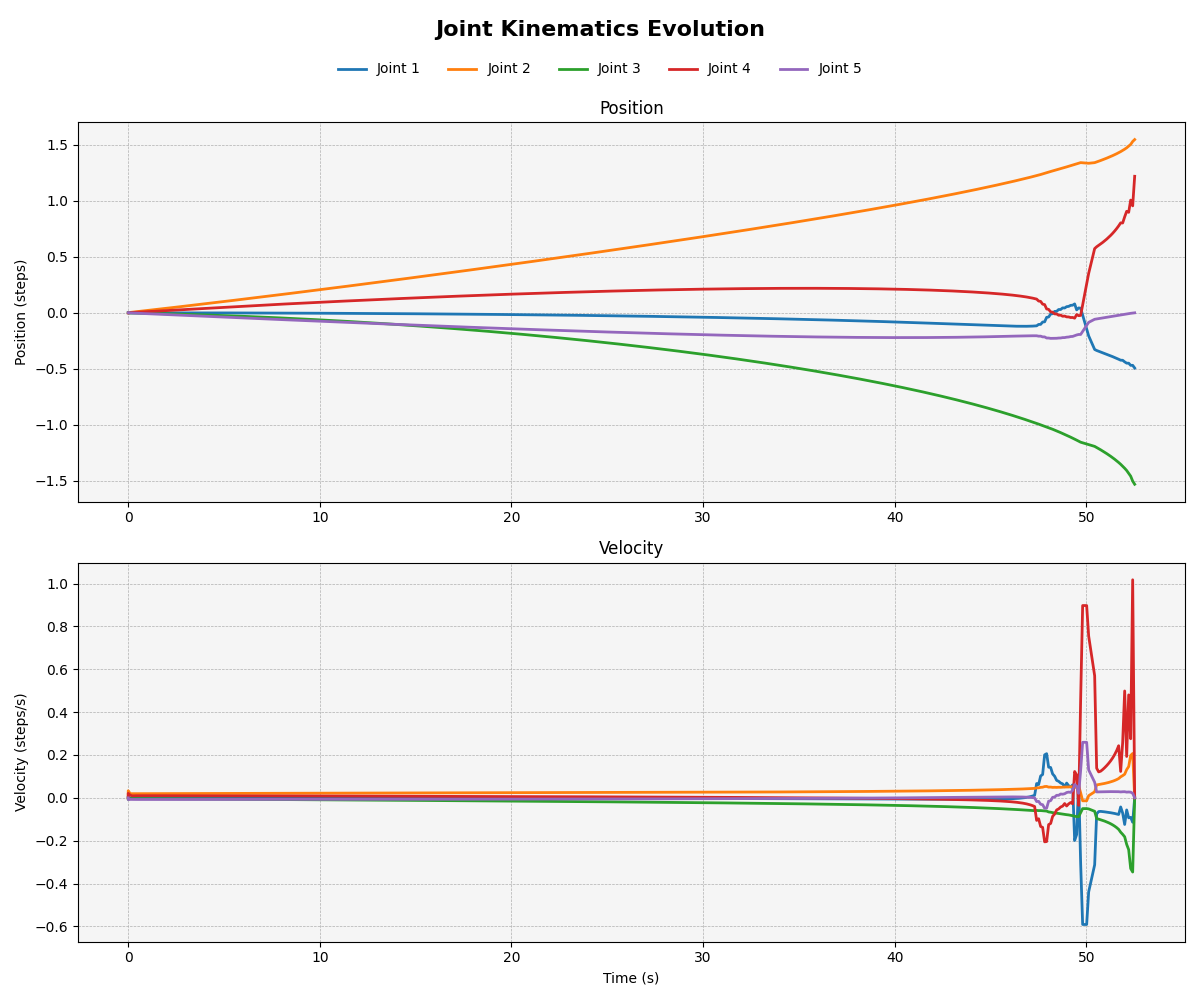
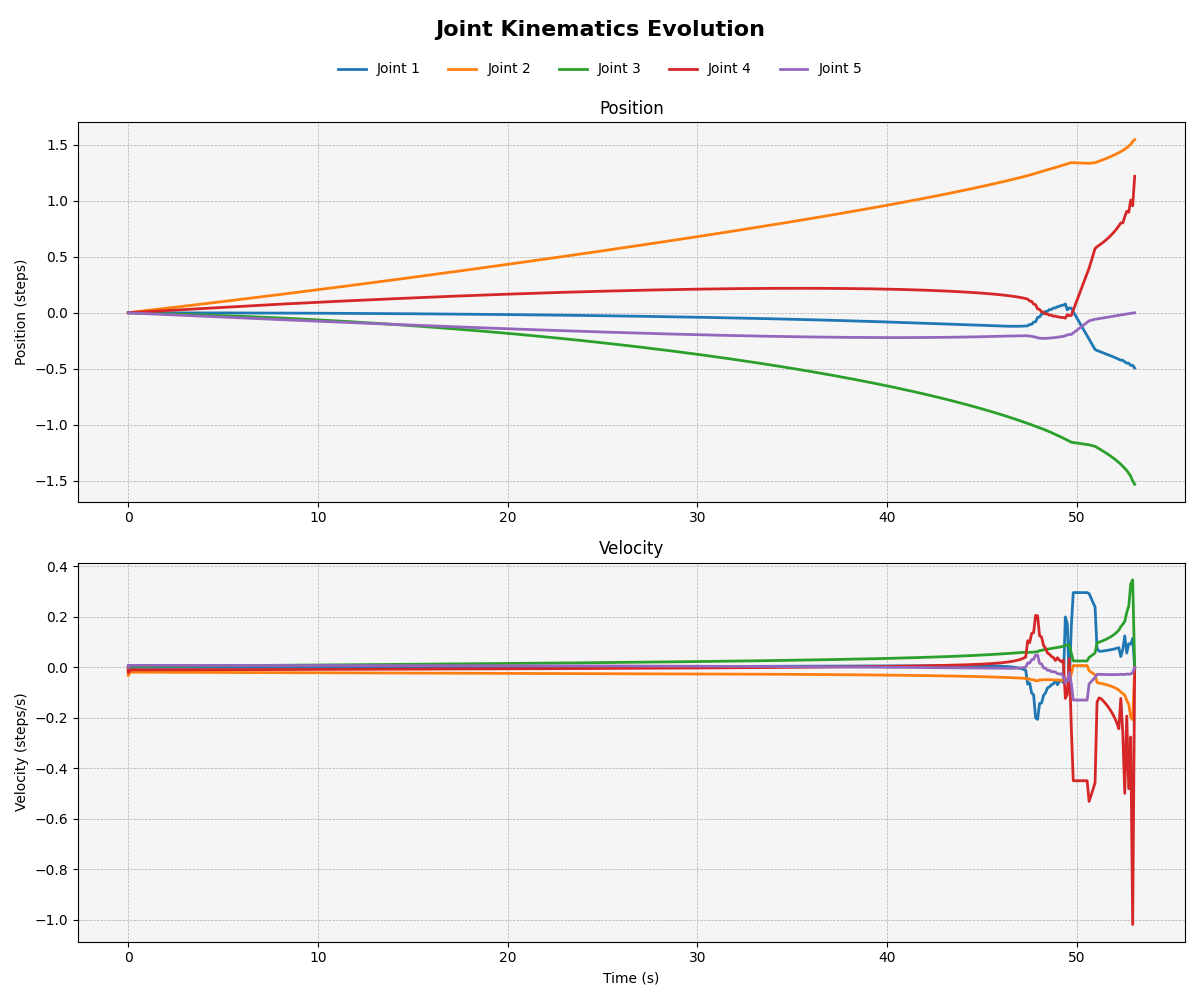
Working v1. Needs cleaning

diff --git a/moveo_software/DHRobot.py b/moveo_software/DHRobot.py
@@ -566,35 +566,37 @@ class DHRobot:
         # Get joint ranges
         joint_ranges = self.get_JointRanges()
 
+
+
         # Forward difference for the first time-stamp
-        print(f'Checking first pose: {q[0]}')
+        print(f'Diriving firs pose: {q[0]}')
         for j in range(N):
             is_linear = prismatic_joints[j]
             valid_range = joint_ranges[j]
             print(f'Valid range of Joint {j+1}: {valid_range}')
-            print(f'Angles values: q1: {q[0]}, q2: {q[1]}')
-            qd[0, j] = AF.calc_dist_in_range(q[1, j], q[0, j], is_linear, valid_range) / dt[0]
+            print(f'Angles values: q1: {round(q[0,j],2)}, q2: {round(q[1,j],2)}')
+            qd[0, j] = -1 * AF.calc_dist_in_range(q[1, j], q[0, j], is_linear, valid_range) / dt[0]
         print()
 
         # Central difference for the intermediate points
         for i in range(1, M - 1):
-            print(f"Checking pose {i+1}: {q[i]}")
+            print(f"Deriving pose {i+1}: {q[i]}")
             for j in range(N):
                 is_linear = prismatic_joints[j]
                 valid_range = joint_ranges[j]
                 print(f'Valid range of Joint {j+1}: {valid_range}')
-                print(f'Angles values: q1: {q[i]}, q2: {q[i+1]}')
-                qd[i, j] = AF.calc_dist_in_range(q[i + 1, j], q[i - 1, j], is_linear, valid_range) / (dt[i] + dt[i - 1])
+                print(f'Angles values: qi-1:{round(q[i-1,j],2)} qi: {round(q[i,j])}, qi+1: {round(q[i+1,j],2)}')
+                qd[i, j] = -1 * AF.calc_dist_in_range(q[i + 1, j], q[i - 1, j], is_linear, valid_range) / (dt[i] + dt[i - 1])
             print()
 
             # Backward difference for the last time-stamp
-        print(f"Checking last pose : {q[-1]}")
+        print(f"Deriving last pose : {q[-1]}")
         for j in range(N):
             is_linear = prismatic_joints[j]
             valid_range = joint_ranges[j]
             print(f'Valid range of Joint {j+1}: {valid_range}')
-            print(f'Angles values: q1: {q[-2]}, q0: {q[-1]}')
-            qd[-1, j] = AF.calc_dist_in_range(q[-1, j], q[-2, j], is_linear, valid_range) / dt[-1]
+            print(f'Angles values: q-2: {round(q[-2,j],2)}, q-1: {round(q[-1,j],2)}')
+            qd[-1, j] = -1 * AF.calc_dist_in_range(q[-1, j], q[-2, j], is_linear, valid_range) / dt[-1]
         print()
 
         # Setting the first and the last velocities to zero as specified

diff --git a/moveo_software/AuxiliarFunctions.py b/moveo_software/AuxiliarFunctions.py
@@ -177,33 +177,47 @@ def calc_dist_in_range(value1, value2, is_linear, valid_range):
 
     return distances
 
-def interpolate_q_in_range(q1, q2, joint_type, joint_ranges, n_interp):
 
-    print('JOINT INTERPOLATION IN RANGE')
+def interpolate_q_in_range(q1, q2, joint_type, joint_ranges, n_interp):
+    import numpy as np
+
+    print("JOINT INTERPOLATION IN RANGE")
+    print(f"q1: {q1}")
+    print(f"q2: {q2}")
+    print(f"joint_type: {joint_type}")
+    print(f"joint_ranges: {joint_ranges}")
+    print(f"n_interp: {n_interp}")
+
     if len(q1) != len(q2):
         raise ValueError("q arrays must be of the same length.")
 
+    # Assuming calc_dist_in_range is a function that calculates the distance considering joint limits
     valid_distances = calc_dist_in_range(q1, q2, joint_type, joint_ranges)
+    print(f"Valid distances in range: {valid_distances}")
 
-    q_interp = []
+    q_interp = np.zeros((n_interp, len(q1)))
 
     for i in range(len(q1)):
+        print(f"Interpolating joint {i} from {q1[i]} to {q2[i]}")
         # Determine the number of interpolation points for each joint, excluding the last point
         points = np.linspace(0, valid_distances[i], n_interp + 1)
+        print(f"Points for joint {i}: {points}")
 
         # Interpolating for each joint
-        for n in points[:-1]:  # Exclude the last point to avoid q2 duplication
+        for j, n in enumerate(
+            points[:-1]
+        ):  # Exclude the last point to avoid q2 duplication
             interpolated_value = q1[i] + n
-            q_interp.append(interpolated_value)
+            print(f"Interpolated value for joint {i} at step {j}: {interpolated_value}")
+            q_interp[j, i] = interpolated_value
 
-    # Converting the list to numpy array and reshaping
-    q_interp = np.array(q_interp).reshape(n_interp, len(q1))
+    print(f"q_interp before wrapping angles: {q_interp}")
 
-    # Wrap angles if necessary
+    # Wrap angles if necessary, assuming wrap_angle_list is a function that handles angle wrapping
     q_interp = wrap_angle_list(q_interp)
+    print(f"q_interp after wrapping angles: {q_interp}")
 
     return q_interp
-
 
 def get_one_every_n(array, n):
     """

diff --git a/moveo_software/LinealTrajectory.py b/moveo_software/LinealTrajectory.py
@@ -301,15 +301,15 @@ def rmve_Singularities(
 
         if np.any(rel_error > rel_tol):
 
-            print("SINGULARITY FOUND AT:")
+            print(f"SINGULARITY FOUND AT POSES {i+1} - {i+2}:")
             print(f"Current q: {q_curr}")
             print(f"Next q: {q_next}")
-            print(f"Relative Deviation: {rel_error}")
+            print(f"Relative Deviation (%): {np.round(rel_error*100,2)}")
             print(f'This may lead to problems in the trajectory execution')
             print()
 
             max_rel_error = np.max(rel_error)
-            steps = max(5, int(np.ceil(max_rel_error * 50)))
+            steps = max(10, int(np.ceil(max_rel_error * 50)))
             n_interp_points += steps
 
             interp_t_start = t_new[-1]
@@ -319,6 +319,9 @@ def rmve_Singularities(
             interpolated_qs = AF.interpolate_q_in_range(
                 q_curr, q_next, joint_type, joint_ranges, steps,
             )
+
+            print(type(interpolated_qs))
+            print(interpolated_qs)
 
             q_new.extend(
                 interpolated_qs[1:]

diff --git a/moveo_software/moveo_test.py b/moveo_software/moveo_test.py
@@ -12,7 +12,7 @@ Moveo.cmd_MoveL(
     trgtQ=[math.pi / 2, math.pi / 2, -math.pi / 2, 0, 0], cartVel=0.006, cartAccel=0.1, mask = [1,1,1,1,0,0]
 )
 Moveo.cmd_WaitEndMove()
-Moveo.cmd_getJointValues()
+print(Moveo.cmd_getJointValues())
 
 Moveo.cmd_MoveJ(trgtQ=[math.pi / 2, math.pi / 2, -math.pi / 2, 0, 0], maxVel=1, Accel=0.5)
 Moveo.cmd_WaitEndMove()

diff --git a/moveo_software/GiRbot.py b/moveo_software/GiRbot.py
@@ -504,7 +504,7 @@ class GiRbot(PhysicalRobot):
 
             self.mov_time = 0.1  # Final position already reached
 
-            self.cmd_setTargetPose(traj.q[-1])
+            self.cmd_setTargetPose(q=traj.q[-1])
             self.current_q = traj.q[-1]
 
             print("Succesfully set movement type to position.")

diff --git a/moveo_software/test_calcDist.py b/moveo_software/test_calcDist.py
@@ -1,0 +1,4 @@
+import AuxiliarFunctions as AF
+import math
+
+print(AF.angle_dist(math.pi/2,))
